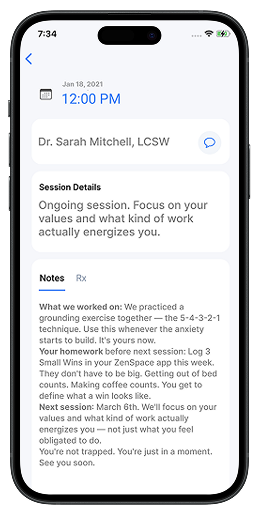
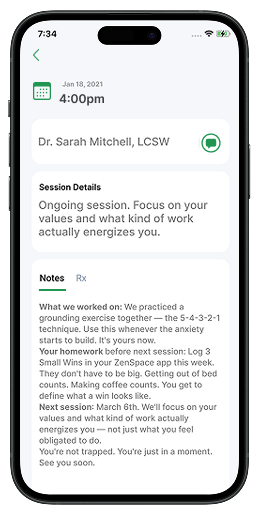
Updated mobile app image to match brand colors.

diff --git a/app/zennotes/ZenNotes.module.scss b/app/zennotes/ZenNotes.module.scss
@@ -553,8 +553,8 @@
 
 .billingSection {
   background: var(--bg--alt--1);
-  border-top: 1px solid var(--color--border--1);
-  border-bottom: 1px solid var(--color--border--1);
+  // border-top: 1px solid var(--color--border--1);
+  // border-bottom: 1px solid var(--color--border--1);
   padding: 8rem 2rem;
   text-align: center;
 
